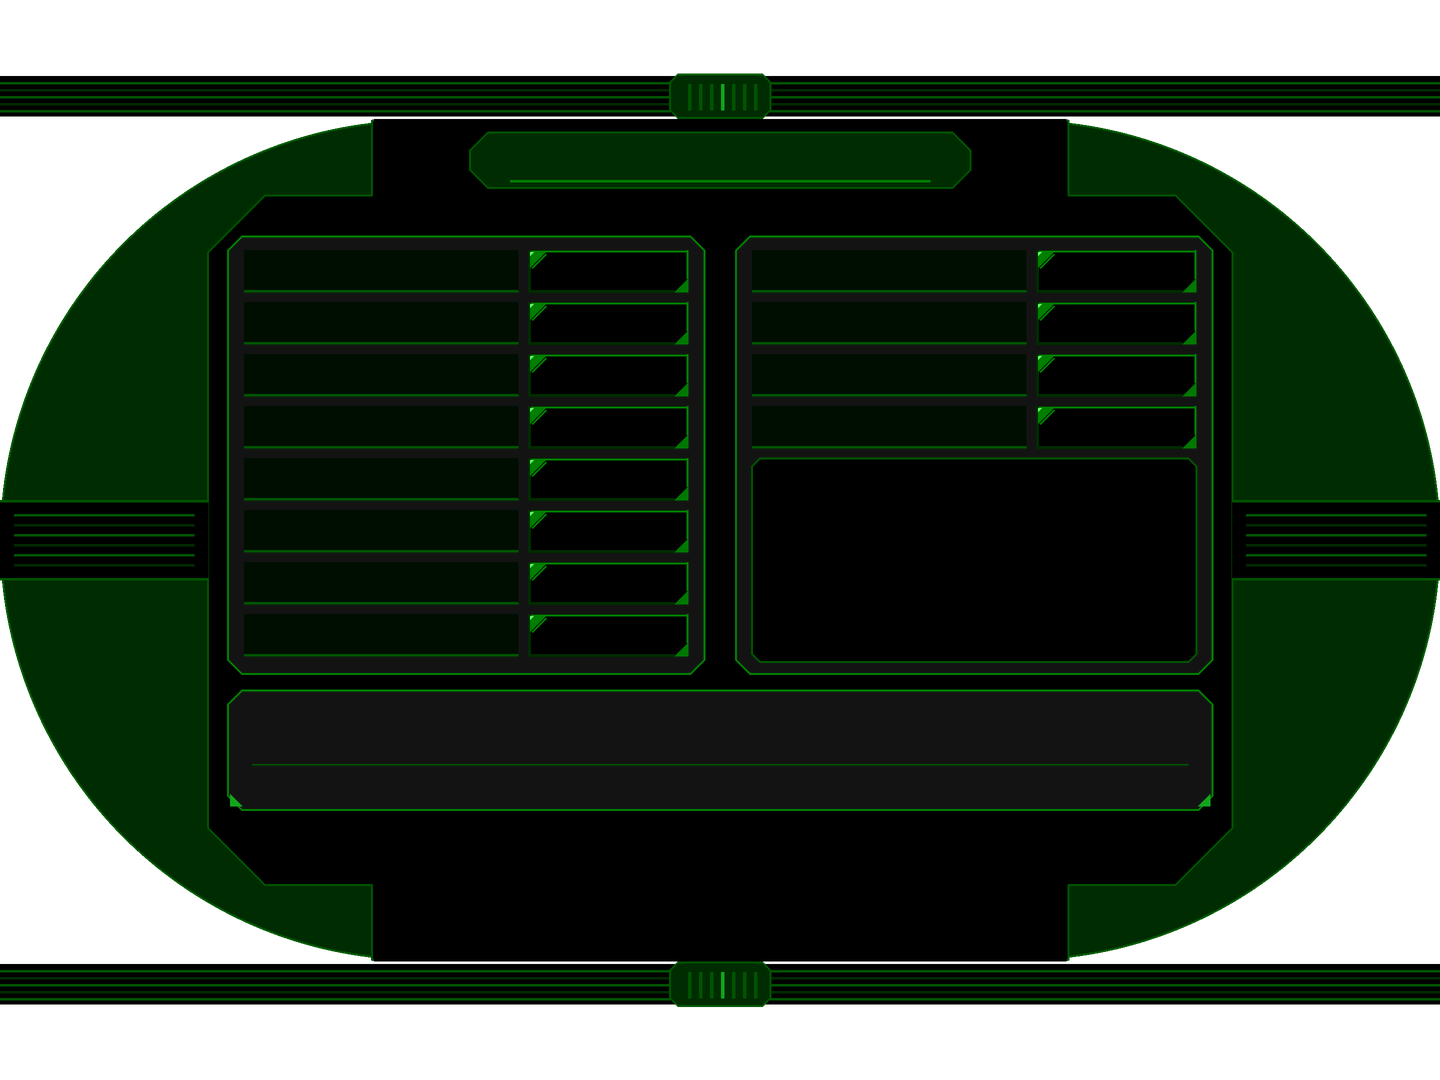
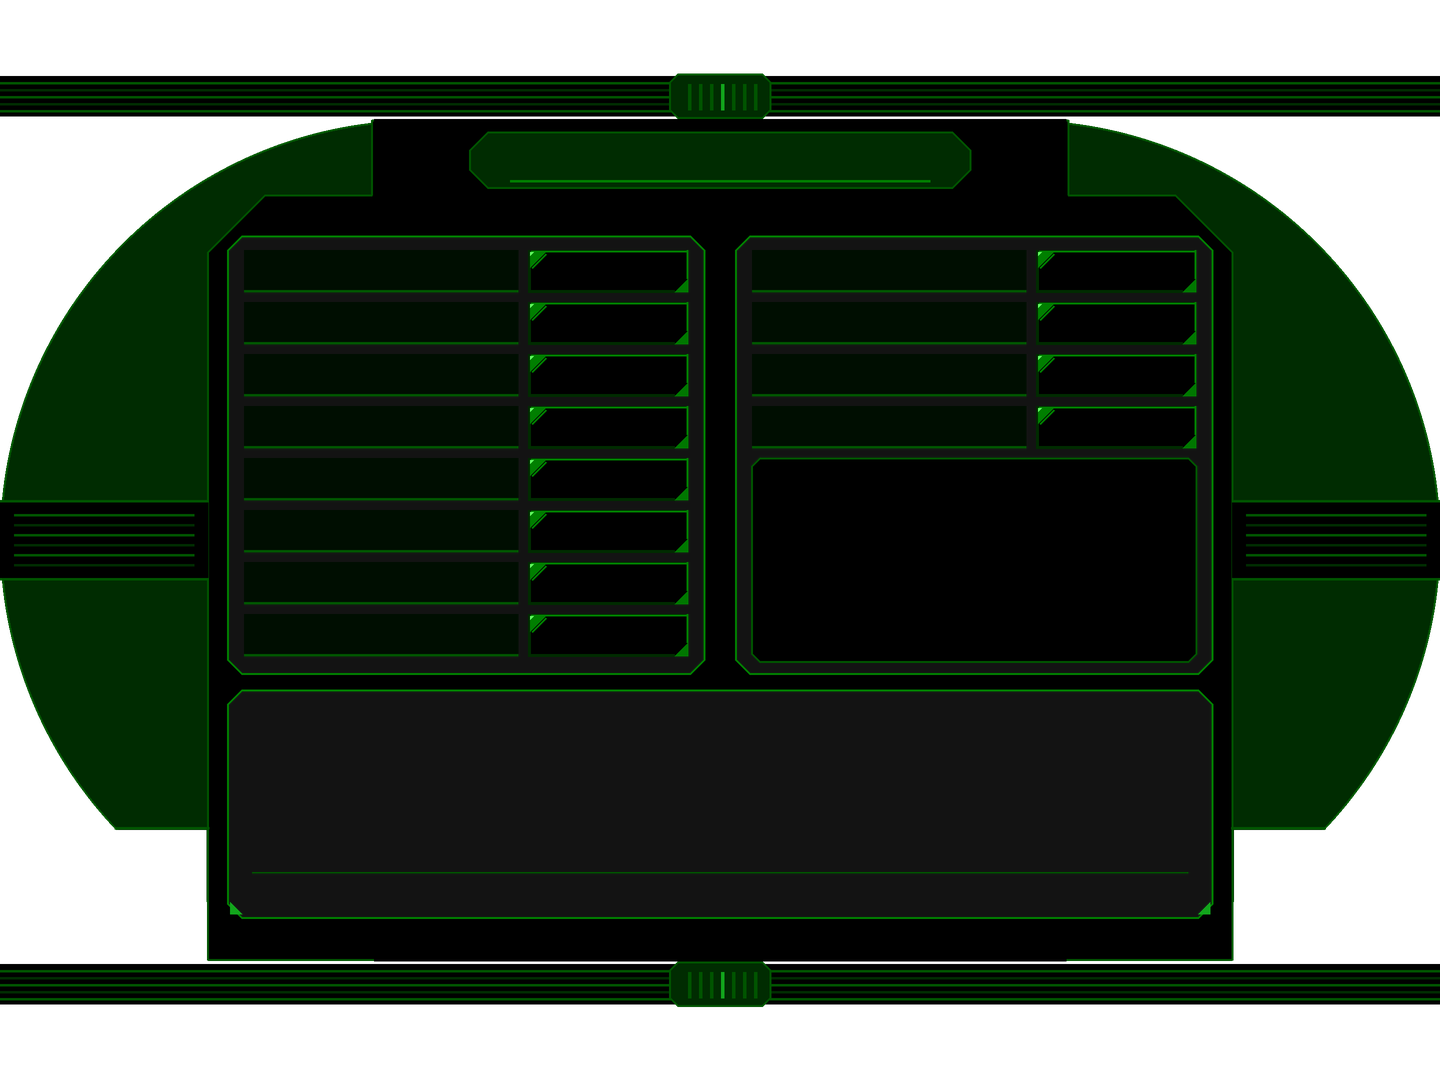
Options: 5-line description box, capped frame brackets, shorter labels
- Category info box grows to 5 wrapped description lines plus the note
  (WrapUiTextToLines); descriptions no longer cut off with "...".
- Category frame: side brackets end in a flat outlined cap at y 828
  instead of the lower arms, freeing the bottom of the screen.
- Shorten labels that overflowed their well (e.g. Fast Menu Transitions ->
  Menu Caching) and trim two long descriptions; regenerate localization.

diff --git a/src/patches/bzr_options_ui.cpp b/src/patches/bzr_options_ui.cpp
@@ -2146,6 +2146,38 @@ namespace BZROpenShim
             return { std::move(first), std::move(second) };
         }
 
+        // Greedy wrap onto up to maxLines; *truncated reports an ellipsized last line.
+        static std::vector<std::string> WrapUiTextToLines(const char* text,
+                                                          float widthPx,
+                                                          size_t maxLines,
+                                                          bool* truncated = nullptr)
+        {
+            std::vector<std::string> lines;
+            std::string rest = TrimAsciiCopy(text ? text : "");
+            if (truncated)
+                *truncated = false;
+            while (!rest.empty() && lines.size() + 2 < maxLines)
+            {
+                auto split = WrapUiTextToTwoLines(rest.c_str(), widthPx);
+                if (split.second.empty())
+                    break;
+                // The first line is exact; the rest re-wraps from the untruncated tail.
+                lines.push_back(split.first);
+                rest = TrimAsciiCopy(rest.substr(split.first.size()));
+            }
+            if (!rest.empty() && maxLines > 0)
+            {
+                bool cut = false;
+                auto tail = WrapUiTextToTwoLines(rest.c_str(), widthPx, &cut);
+                if (truncated)
+                    *truncated = cut;
+                lines.push_back(std::move(tail.first));
+                if (lines.size() < maxLines && !tail.second.empty())
+                    lines.push_back(std::move(tail.second));
+            }
+            return lines;
+        }
+
         static bool SetInputBindingUiWrappedLabelText(void* firstLabel,
                                                       void* secondLabel,
                                                       const char* text,
@@ -3004,7 +3036,9 @@ namespace BZROpenShim
         constexpr float kShimRowH = 42.0f;
         constexpr float kShimRowPad = 16.0f;
         constexpr float kShimValueW = 160.0f;
-        constexpr Shell::Rect kShimCategoryInfo = { 228.0f, 690.0f, 984.0f, 120.0f };
+        // Five description lines plus the standing note (mkscreens.py CATEGORY_LAYOUT['info']).
+        constexpr size_t kShimCategoryInfoLines = 5;
+        constexpr Shell::Rect kShimCategoryInfo = { 228.0f, 690.0f, 984.0f, 228.0f };
 
         static Shell::Rect ShimHubTileRect(size_t index)
         {
@@ -3030,13 +3064,13 @@ namespace BZROpenShim
             return { x, value.y, value.x - x - 22.0f, kShimRowH };
         }
 
-        // Three text lines in an info box: two for a description, and one
-        // under the painted divider for a standing note.
-        static Shell::Rect ShimInfoLine(const Shell::Rect& box, size_t line)
+        // Text lines in an info box: descLines for a description, and one
+        // under the painted divider (line == descLines) for a standing note.
+        static Shell::Rect ShimInfoLine(const Shell::Rect& box, size_t line, size_t descLines = 2)
         {
             const float x = box.x + 24.0f;
             const float w = box.w - 48.0f;
-            if (line < 2)
+            if (line < descLines)
                 return { x, box.y + 14.0f + 32.0f * static_cast<float>(line), w, 30.0f };
             return { x, box.y + box.h - 42.0f, w, 30.0f };
         }
@@ -3154,7 +3188,7 @@ namespace BZROpenShim
             std::array<void*, kShimCategoryMaxRows> values = {};
             std::array<void*, 192> previewQuads = {};
             void* previewNote = nullptr;
-            void* info[3] = {};
+            void* info[kShimCategoryInfoLines + 1] = {};
             std::string status;
         };
         static ShimHubUi g_ShimHubUi;
@@ -3172,6 +3206,14 @@ namespace BZROpenShim
         static void SetShimInfoText(void* const (&info)[3], const char* text, float width)
         {
             SetInputBindingUiWrappedLabelText(info[0], info[1], text ? text : "", width);
+        }
+
+        static void SetShimCategoryInfoText(const char* text, float width)
+        {
+            const auto lines = WrapUiTextToLines(text, width, kShimCategoryInfoLines);
+            for (size_t line = 0; line < kShimCategoryInfoLines; ++line)
+                SetInputBindingUiLabelText(g_ShimCategoryUi.info[line],
+                                           line < lines.size() ? lines[line].c_str() : "");
         }
 
         // ---- hub ----------------------------------------------------------
@@ -3405,11 +3447,10 @@ namespace BZROpenShim
             if (!ui.screen)
                 return;
             const float width = ShimInfoLine(kShimCategoryInfo, 0).w;
-            SetShimInfoText(ui.info,
-                            ui.status.empty()
+            SetShimCategoryInfoText(ui.status.empty()
                                 ? ShimText("openshim_ui:category_hint", "Click a value to change it. Point at a setting to read what it does.")
                                 : ui.status.c_str(),
-                            width);
+                                    width);
             bool anyRestart = false;
             for (size_t slot = 0; slot < ui.rowCount; ++slot)
             {
@@ -3418,7 +3459,7 @@ namespace BZROpenShim
                               g_ShimSettingsRegistry[row].applyGroup == ShimSettingApplyGroup::RestartRequired;
             }
             SetInputBindingUiLabelTextFitted(
-                ui.info[2],
+                ui.info[kShimCategoryInfoLines],
                 anyRestart ? ShimText("openshim_ui:restart_note", "* Takes effect after restarting Battlezone.")
                            : ShimRuntimeLine().c_str(),
                 width);
@@ -3503,11 +3544,12 @@ namespace BZROpenShim
                             ShimSettingValueLabel(setting, (current + 1) % setting.valueCount));
                         // The hint is a convenience; never let it cut the description.
                         bool truncated = false;
-                        WrapUiTextToTwoLines(withHint.c_str(), ShimInfoLine(kShimCategoryInfo, 0).w, &truncated);
+                        WrapUiTextToLines(withHint.c_str(), ShimInfoLine(kShimCategoryInfo, 0).w,
+                                          kShimCategoryInfoLines, &truncated);
                         if (!truncated)
                             text = withHint;
                     }
-                    SetShimInfoText(ui.info, text.c_str(), ShimInfoLine(kShimCategoryInfo, 0).w);
+                    SetShimCategoryInfoText(text.c_str(), ShimInfoLine(kShimCategoryInfo, 0).w);
                     return;
                 }
             }
@@ -3793,10 +3835,11 @@ namespace BZROpenShim
                 ui.values[slot] = Shell::AddButton(panel, panel, name, ShimValueRect(slot), "", skin, 1.0f,
                                                    0.0f, kShimCategoryRowClicks[slot], &OnShimCategoryHover);
             }
-            for (size_t line = 0; line < 3; ++line)
+            for (size_t line = 0; line <= kShimCategoryInfoLines; ++line)
             {
                 _snprintf_s(name, _TRUNCATE, "OpenShimCategory_Info%zu", line);
-                ui.info[line] = Shell::AddLabel(panel, panel, name, ShimInfoLine(kShimCategoryInfo, line), "");
+                ui.info[line] = Shell::AddLabel(panel, panel, name,
+                                                ShimInfoLine(kShimCategoryInfo, line, kShimCategoryInfoLines), "");
             }
             if (category == kShimReticleCategory || category == kShimDamageCategory)
             {

diff --git a/resources/ui/custom_widgets/mkscreens.py b/resources/ui/custom_widgets/mkscreens.py
@@ -19,6 +19,7 @@ src/patches/lan_screen.cpp.
     python mkscreens.py            # writes every osh_*_center.png and button skin
     python mkscreens.py --preview  # also writes *_preview.png over black
 """
+import math
 import sys
 from pathlib import Path
 
@@ -56,11 +57,13 @@ def poly(d, pts, fill=None, outline=None, width=1):
         d.line(pts + [pts[0]], fill=outline, width=s(width), joint='curve')
 
 
-def frame(d):
+def frame(d, cap_y=None):
     """Outer frame after the Options panels: a stadium-shaped body whose
     middle is cut out as a chamfered black field, leaving two side brackets
     with half-round outer edges and short arms along the top and bottom,
-    plus a trace band above and below."""
+    plus a trace band above and below. With cap_y set, the brackets have no
+    lower arms: each ends in a flat, outlined cap at cap_y and the field runs
+    open to the bottom band, freeing the bottom of the screen."""
     top, bot = 120, 960
     # Trace bands across the full width: a dark strip of five lines with a
     # connector block at the centre, after the stock bands.
@@ -78,11 +81,28 @@ def frame(d):
     d.rounded_rectangle([s(0), s(top), s(W), s(bot)], radius=s((bot - top) / 2),
                         fill=FILL, outline=LINE, width=s(2))
     # Inner field: open between the arms, chamfered where the arms turn.
-    inner = [(372, top), (W - 372, top), (W - 372, 195), (W - 265, 195), (W - 208, 252),
-             (W - 208, bot - 132), (W - 265, bot - 75), (W - 372, bot - 75), (W - 372, bot),
-             (372, bot), (372, bot - 75), (265, bot - 75), (208, bot - 132), (208, 252),
-             (265, 195), (372, 195)]
+    if cap_y is None:
+        lower = [(W - 208, bot - 132), (W - 265, bot - 75), (W - 372, bot - 75),
+                 (W - 372, bot), (372, bot), (372, bot - 75), (265, bot - 75),
+                 (208, bot - 132)]
+    else:
+        lower = [(W - 208, cap_y), (W - 208, bot), (208, bot), (208, cap_y)]
+    inner = ([(372, top), (W - 372, top), (W - 372, 195), (W - 265, 195), (W - 208, 252)]
+             + lower + [(208, 252), (265, 195), (372, 195)])
     poly(d, inner, fill=(0, 0, 0, 255), outline=LINE, width=2)
+    if cap_y is not None:
+        # Cut each bracket off flat at cap_y and outline the cut, so the
+        # bracket ends in a squared end rather than tapering along the curve.
+        # Below the cap the bracket is cleared to transparent (as outside the
+        # body), leaving the field's outlined edge at x 208 down to the band.
+        for x0, x1 in ((0, 206), (W - 206, W)):
+            d.rectangle([s(x0), s(cap_y + 2), s(x1), s(bot + 2)], fill=(0, 0, 0, 0))
+        # The cap line spans only the body: from its round outer edge at
+        # cap_y to the field edge.
+        r = (bot - top) / 2
+        edge = r - math.sqrt(max(0.0, r * r - (cap_y - (top + r)) ** 2))
+        for x0, x1 in ((edge, 209), (W - 209, W - edge)):
+            d.rectangle([s(x0), s(cap_y - 1), s(x1), s(cap_y + 1)], fill=LINE)
     # The field runs into the bands, so the outline must not close across them.
     d.rectangle([s(374), s(top - 1), s(W - 374), s(top + 2)], fill=(0, 0, 0, 255))
     d.rectangle([s(374), s(bot - 2), s(W - 374), s(bot + 1)], fill=(0, 0, 0, 255))
@@ -269,10 +289,10 @@ def text_well(d, x, y, w, h):
     d.rectangle([s(x), s(y + h - 2), s(x + w), s(y + h)], fill=LINE)
 
 
-def new_panel():
+def new_panel(cap_y=None):
     img = Image.new('RGBA', (s(W), s(H)), (0, 0, 0, 0))
     d = ImageDraw.Draw(img)
-    frame(d)
+    frame(d, cap_y)
     return img, d
 
 
@@ -296,7 +316,10 @@ CATEGORY_LAYOUT = {
     'columns': [(228, 236, 476, 438), (736, 236, 476, 438)],
     'row_top': 14, 'row_pitch': 52, 'row_h': 42, 'rows': 8,
     'pad': 16, 'value_w': 160,
-    'info': (228, 690, 984, 120),
+    # 5 description lines + note (kShimCategoryInfo). It reaches below the
+    # standard bracket arms, so this screen caps the brackets: frame(d, cap_y=828).
+    'info': (228, 690, 984, 228),
+    'cap_y': 828,
 }
 # The key-binding editor on the stock Input screen (painted mode). Toolbar
 # widths and grouping mirror kInputBindingUiToolbarWidths / RightGroup, and
@@ -354,7 +377,7 @@ def hub_center():
 
 
 def category_center(reticle=False):
-    img, d = new_panel()
+    img, d = new_panel(CATEGORY_LAYOUT['cap_y'])
     title_plate(d, *CATEGORY_LAYOUT['title'])
     L = CATEGORY_LAYOUT
     for column, (bx, by, bw, bh) in enumerate(L['columns']):

diff --git a/src/patches/openshim_preset_migration.cpp b/src/patches/openshim_preset_migration.cpp
@@ -352,7 +352,7 @@ namespace BZROpenShim
             { "Terrain", "TerrainHdEnabled", "0", "1" },
         };
 
-        // Revision 7 -> 8. Terrain Micro Detail became the default the same
+        // Revision 7 -> 8. Micro Relief became the default the same
         // day: the paint packs' rock, crack and crater height is displaced by
         // its tessellation, so without it painted ground looks flat. DX11
         // only; other renderers keep native terrain. Only the shipped 0 moves.
@@ -360,7 +360,7 @@ namespace BZROpenShim
             { "Terrain", "TerrainMicroRelief", "0", "1" },
         };
 
-        // Revision 8 -> 9. Terrain Micro Detail went back to opt-in the same
+        // Revision 8 -> 9. Micro Relief went back to opt-in the same
         // day: measured at ~10 ms/frame at 3840x2160 on an RTX 5080 (165-195
         // fps off vs 60-80 fps on), which halves the frame rate. Only the
         // shipped 1 moves, so an explicit 0 (or any other value) is untouched.

diff --git a/src/patches/dx11_colorspace_diagnostic.cpp b/src/patches/dx11_colorspace_diagnostic.cpp
@@ -2256,7 +2256,7 @@ namespace BZROpenShim
         g_TessStatisticsEnabled = tessLength > 0 && tessLength < sizeof(tessTest) &&
             BoolToken::IsTruthy(tessTest, tessLength);
         const bool terrainProbeRequested = TerrainProbeRequested() || g_TessStatisticsEnabled;
-        // Keyed on HD terrain alone, not Terrain Micro Detail: the preset
+        // Keyed on HD terrain alone, not Micro Relief: the preset
         // migration that turns relief on runs later in startup, and the
         // options page can turn it on mid-session. Without the hook the
         // relief test is declined and the painted terrain falls back to

diff --git a/Docs/NATIVE_EVENT_LAYER.md b/Docs/NATIVE_EVENT_LAYER.md
@@ -222,9 +222,9 @@ nothing else listening" collapses to a single interlocked read on the damage
 path — and a future subscriber gets the events without being wired into a
 career-specific predicate.
 
-### 5.1 Reset Career Stats
+### 5.1 Reset Career
 
-A second Settings row, **Reset Career Stats**, clears the record. It is the
+A second Settings row, **Reset Career**, clears the record. It is the
 first *action row* on that page: `ShimSettingApplyGroup::CareerStatsReset` with
 a null section and key, so nothing in the ini read or lossless-write path
 treats it as a setting, and clicking runs something instead of cycling a value.
@@ -282,7 +282,7 @@ as already empty — that is what a previous reset leaves behind.
    no `[CAREER]` writes, and that `career_stats.cfg` stops changing.
 8. Confirm a companion DLL polling the v2 queue still receives the lifecycle
    events, and now also receives `SimSessionStarted` / `SimKill`.
-9. Click **Reset Career Stats** once and confirm the cell reads `Confirm?` and
+9. Click **Reset Career** once and confirm the cell reads `Confirm?` and
    nothing is written; click a different row and confirm it disarms. Then click
    it twice: `career_stats.cfg` should hold only `meta.version`, a
    `career_stats.cfg.openshim.bak` should appear beside it, and the **Career

diff --git a/Docs/MENU_THEME.md b/Docs/MENU_THEME.md
@@ -36,7 +36,7 @@ constructor/call-site analysis and live prologue checks preceded their addition.
 The page uses native sliders, including their arrow-step behavior.
 
 The accompanying options navigation repair guards null-key action rows (the
-System page's Reset Career Stats action) before color-key comparisons and
+System page's Reset Career action) before color-key comparisons and
 creates category navigation before formatting the page contents. Menu Colors
 Back is a child of its full-screen panel, matching the working category-page
 input hierarchy; a sibling button could draw while the panel intercepted input.
